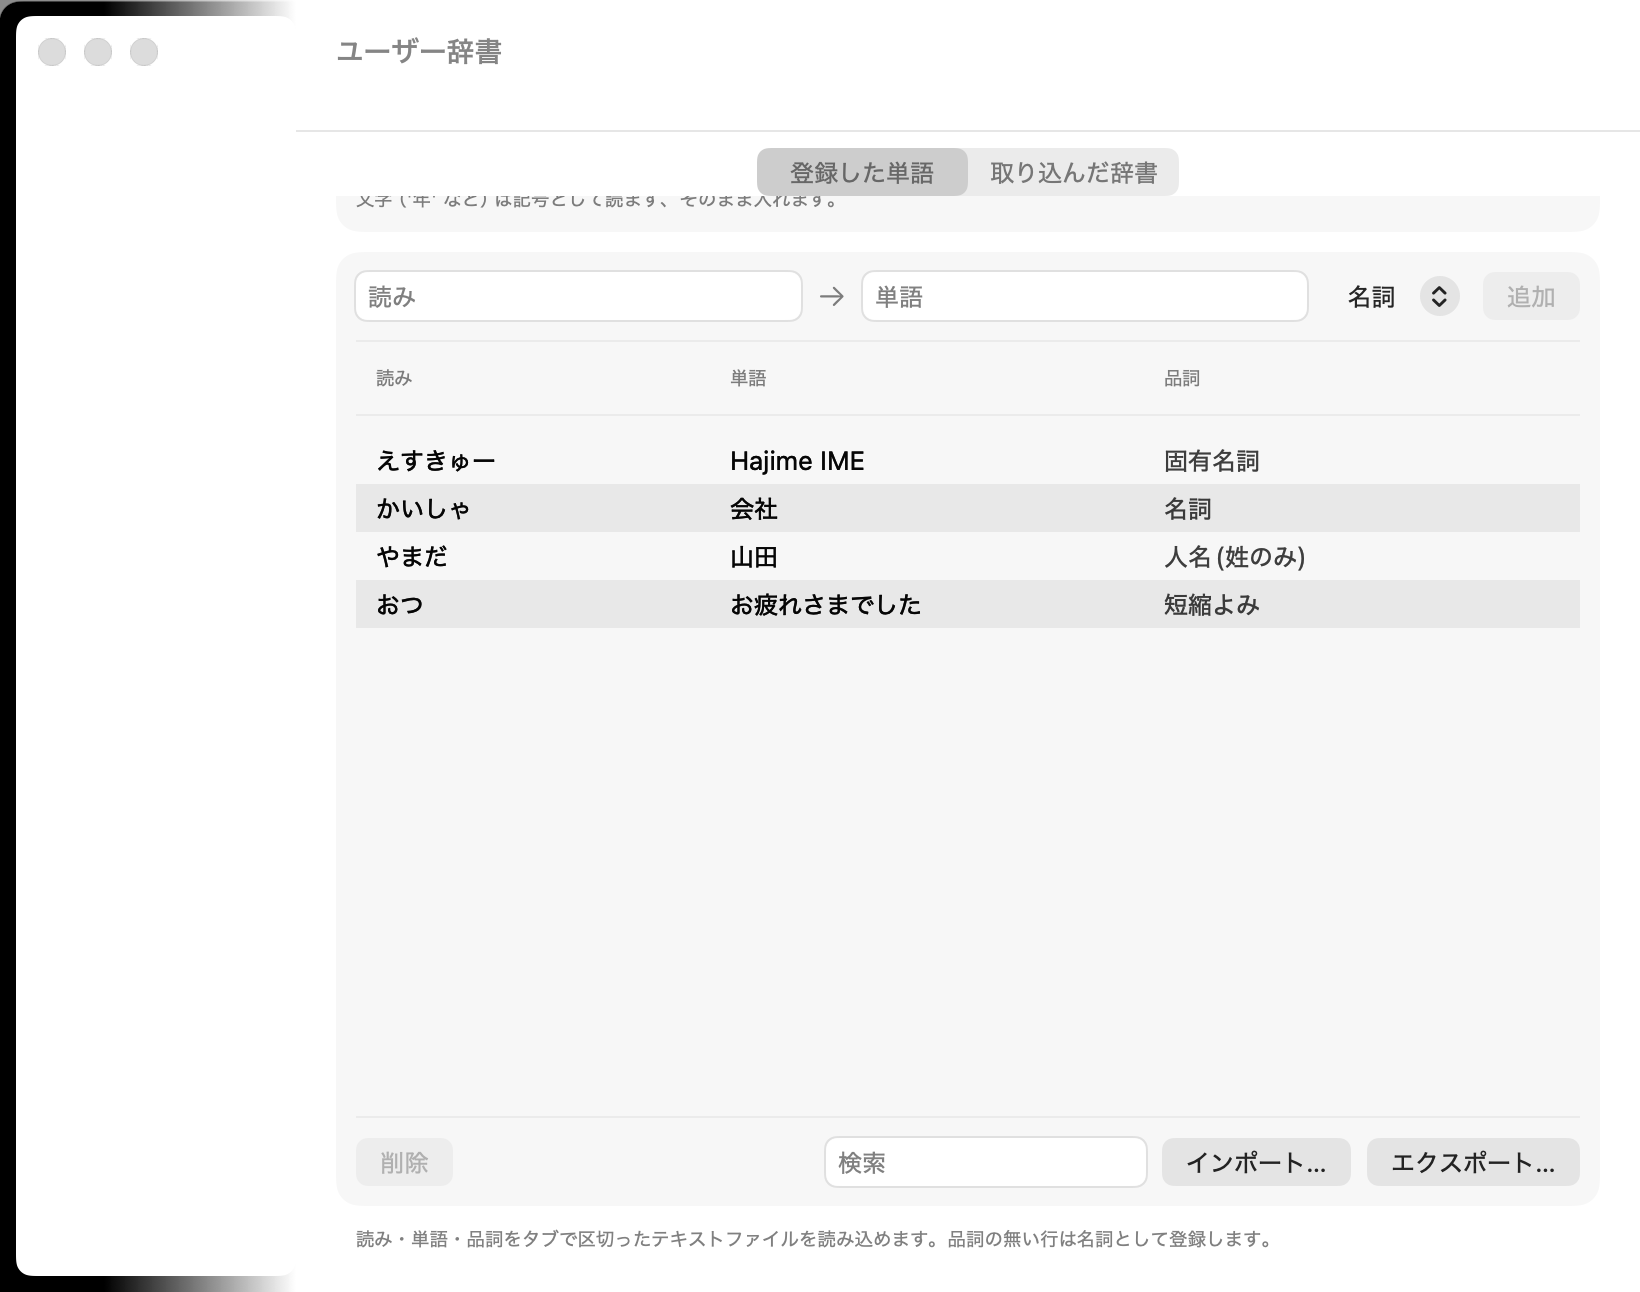
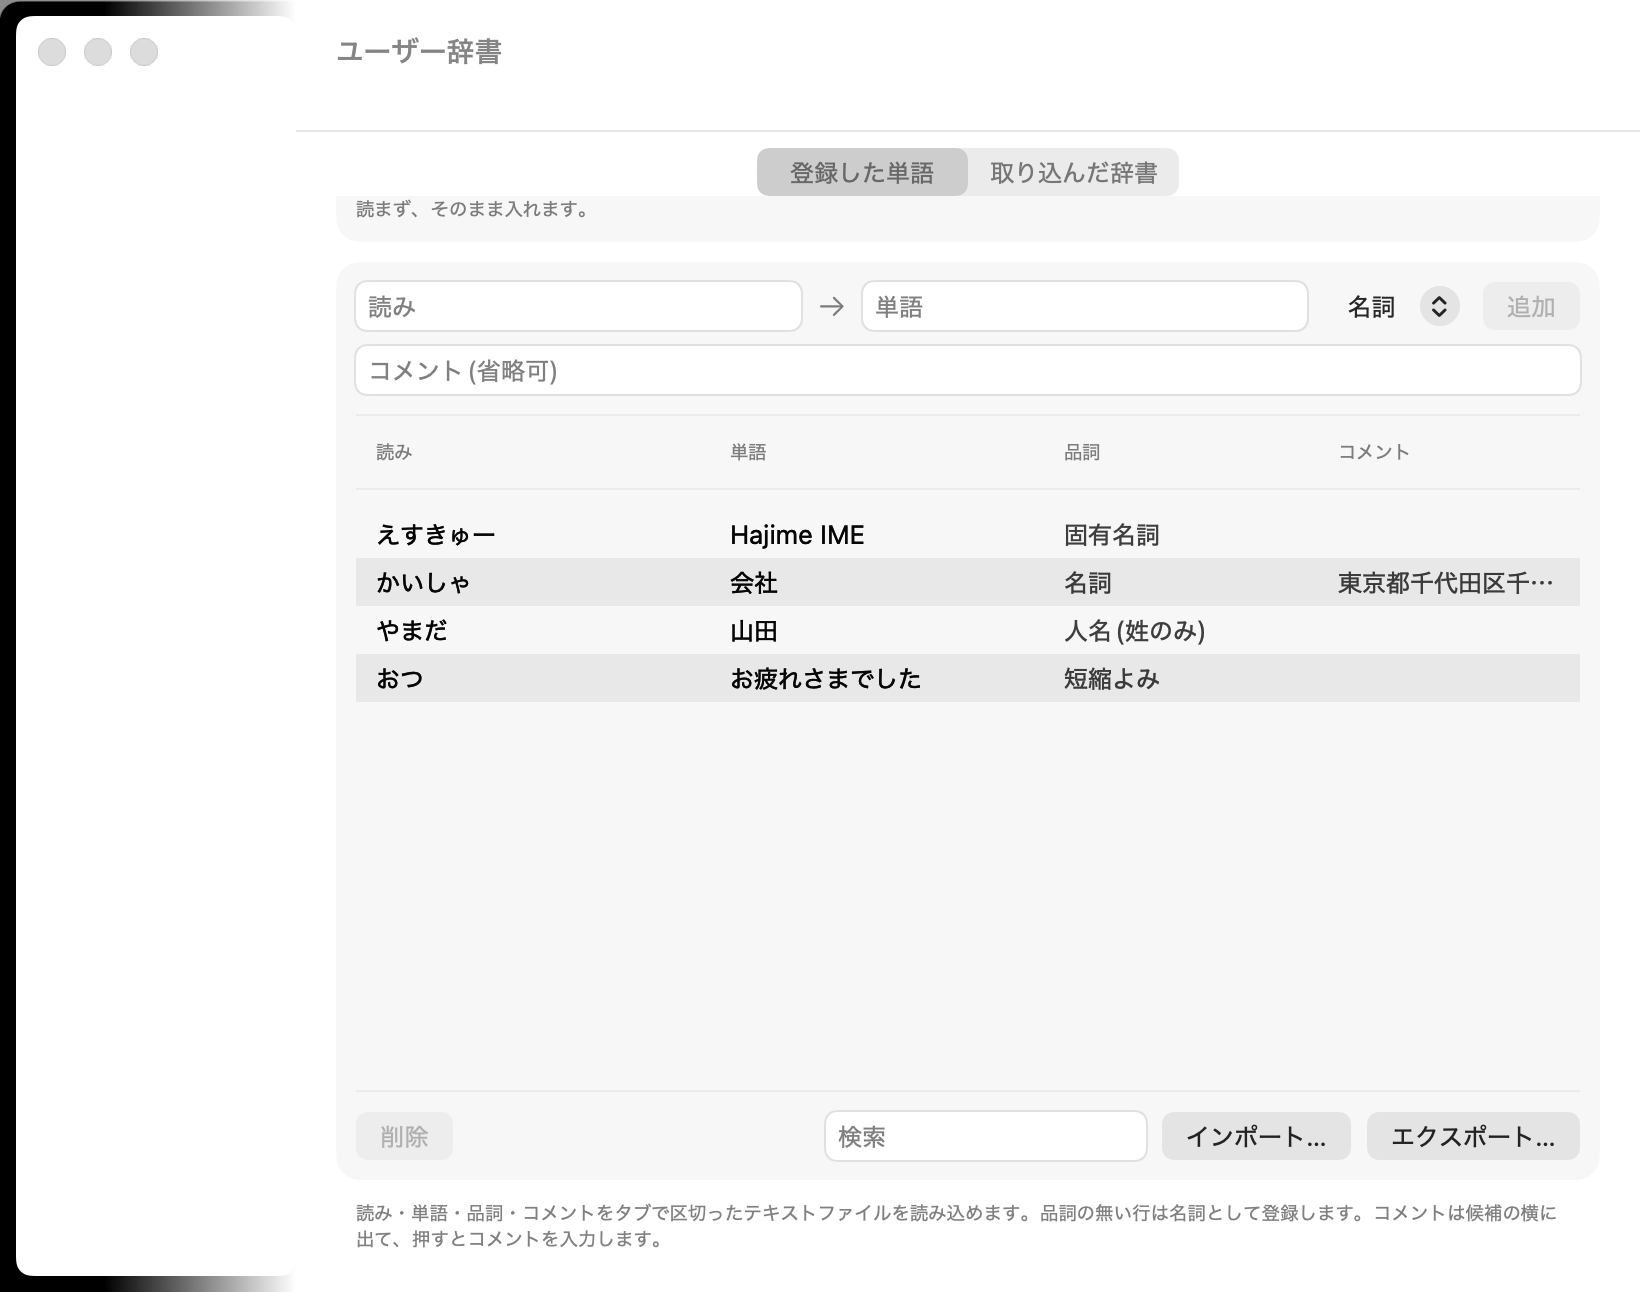
fix(macos): ユーザー辞書の入力の欄から注記までを窓に収め，コメントの欄を入力の行とまとめる

diff --git a/apps/macos/Hajime/Settings/RuleListEditor.swift b/apps/macos/Hajime/Settings/RuleListEditor.swift
@@ -172,13 +172,16 @@ struct RuleListEditor: View {
     }
 
     var body: some View {
-        editor
-        if hasNote, let noteLabel = labels.note {
-            TextField(noteLabel, text: $note, prompt: Text(labels.notePrompt ?? noteLabel))
-                .textFieldStyle(.roundedBorder)
-                .labelsHidden()
-                .focused($focusedField, equals: .note)
-                .onSubmit(commit)
+        // 添え書きの欄は，入力の行と同じまとまり(Form の 1 行)に置き，あいだに区切りの線を入れない
+        VStack(alignment: .leading, spacing: DesignTokens.Size.Settings.ruleNoteFieldGap) {
+            editor
+            if hasNote, let noteLabel = labels.note {
+                TextField(noteLabel, text: $note, prompt: Text(labels.notePrompt ?? noteLabel))
+                    .textFieldStyle(.roundedBorder)
+                    .labelsHidden()
+                    .focused($focusedField, equals: .note)
+                    .onSubmit(commit)
+            }
         }
         if let message {
             Label(message.text, systemImage: message.isProblem ? "exclamationmark.triangle.fill" : "info.circle")

diff --git a/apps/windows/crates/tokens/src/generated.rs b/apps/windows/crates/tokens/src/generated.rs
@@ -290,6 +290,7 @@ pub mod size {
         pub const RULE_CHECK_COLUMN_WIDTH: f32 = 40.0;
         pub const RULE_KEY_COLUMN_WIDTH: f32 = 160.0;
         pub const RULE_VALUE_COLUMN_WIDTH: f32 = 150.0;
+        pub const RULE_NOTE_FIELD_GAP: f32 = 8.0;
         pub const RULE_KIND_COLUMN_WIDTH: f32 = 120.0;
         pub const COMMAND_READING_COLUMN_WIDTH: f32 = 110.0;
         pub const COMMAND_TITLE_COLUMN_WIDTH: f32 = 120.0;
@@ -300,7 +301,7 @@ pub mod size {
         pub const TABLE_POPUP_TEXT_INSET: f32 = 21.0;
         pub const THEME_EDITOR_WIDTH: f32 = 640.0;
         pub const THEME_EDITOR_HEIGHT: f32 = 720.0;
-        pub const USER_DICTIONARY_TABLE_HEIGHT: f32 = 330.0;
+        pub const USER_DICTIONARY_TABLE_HEIGHT: f32 = 280.0;
         pub const PREVIEW_PADDING: f32 = 24.0;
         pub const KEY_FILTER_RADIUS: f32 = 5.0;
         pub const FONT_SLIDER_WIDTH: f32 = 220.0;
